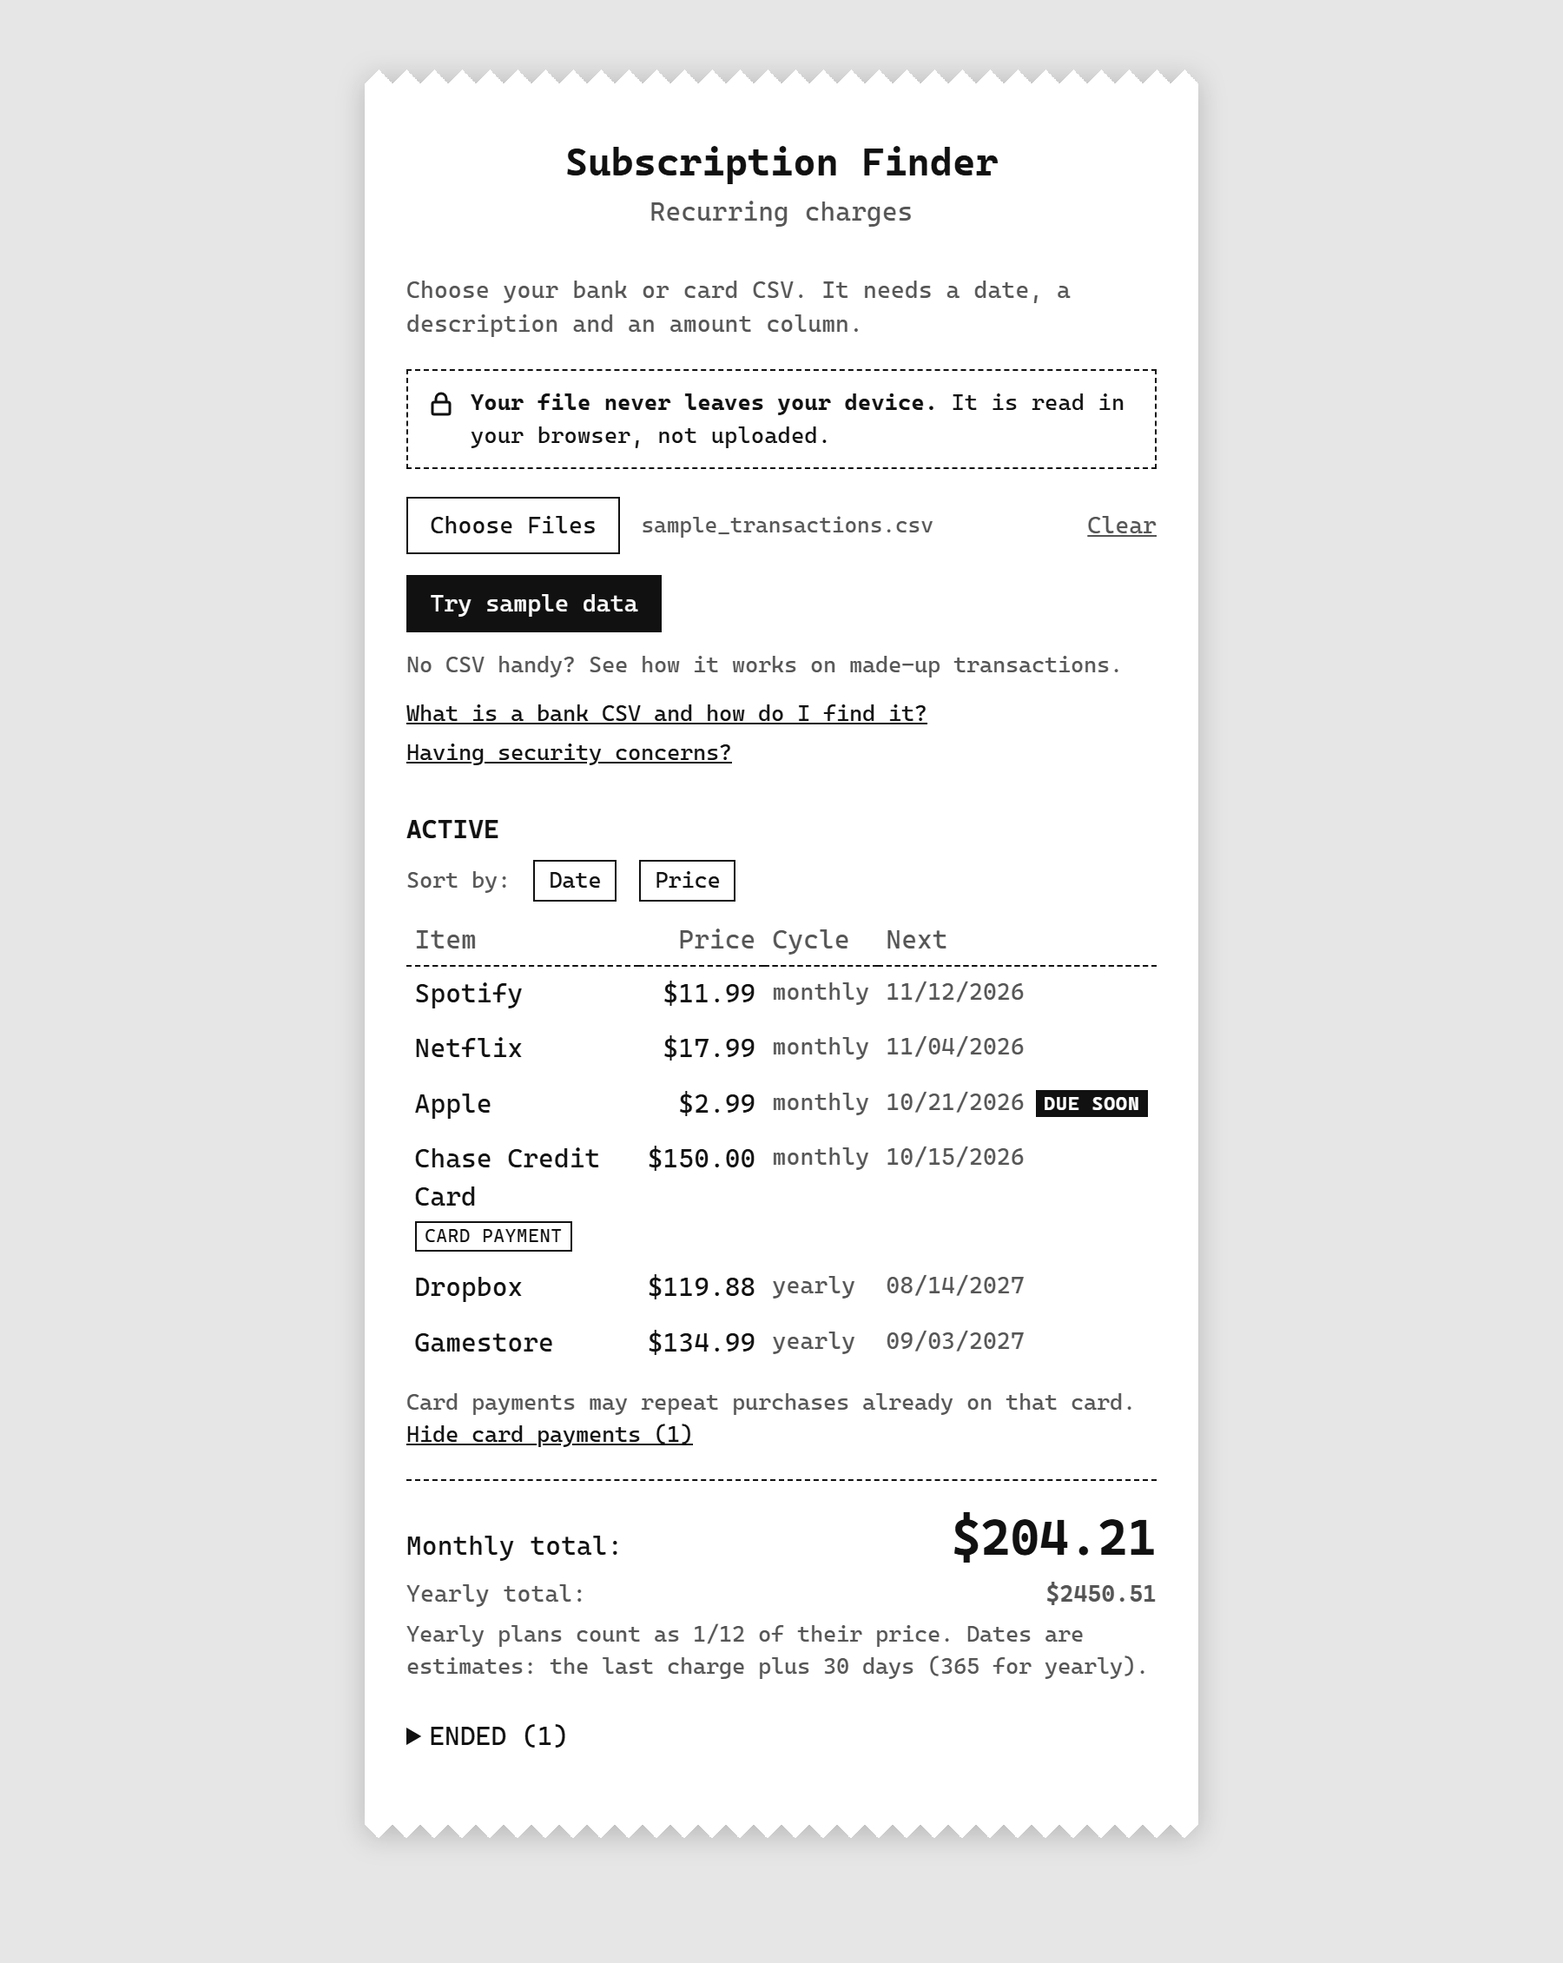
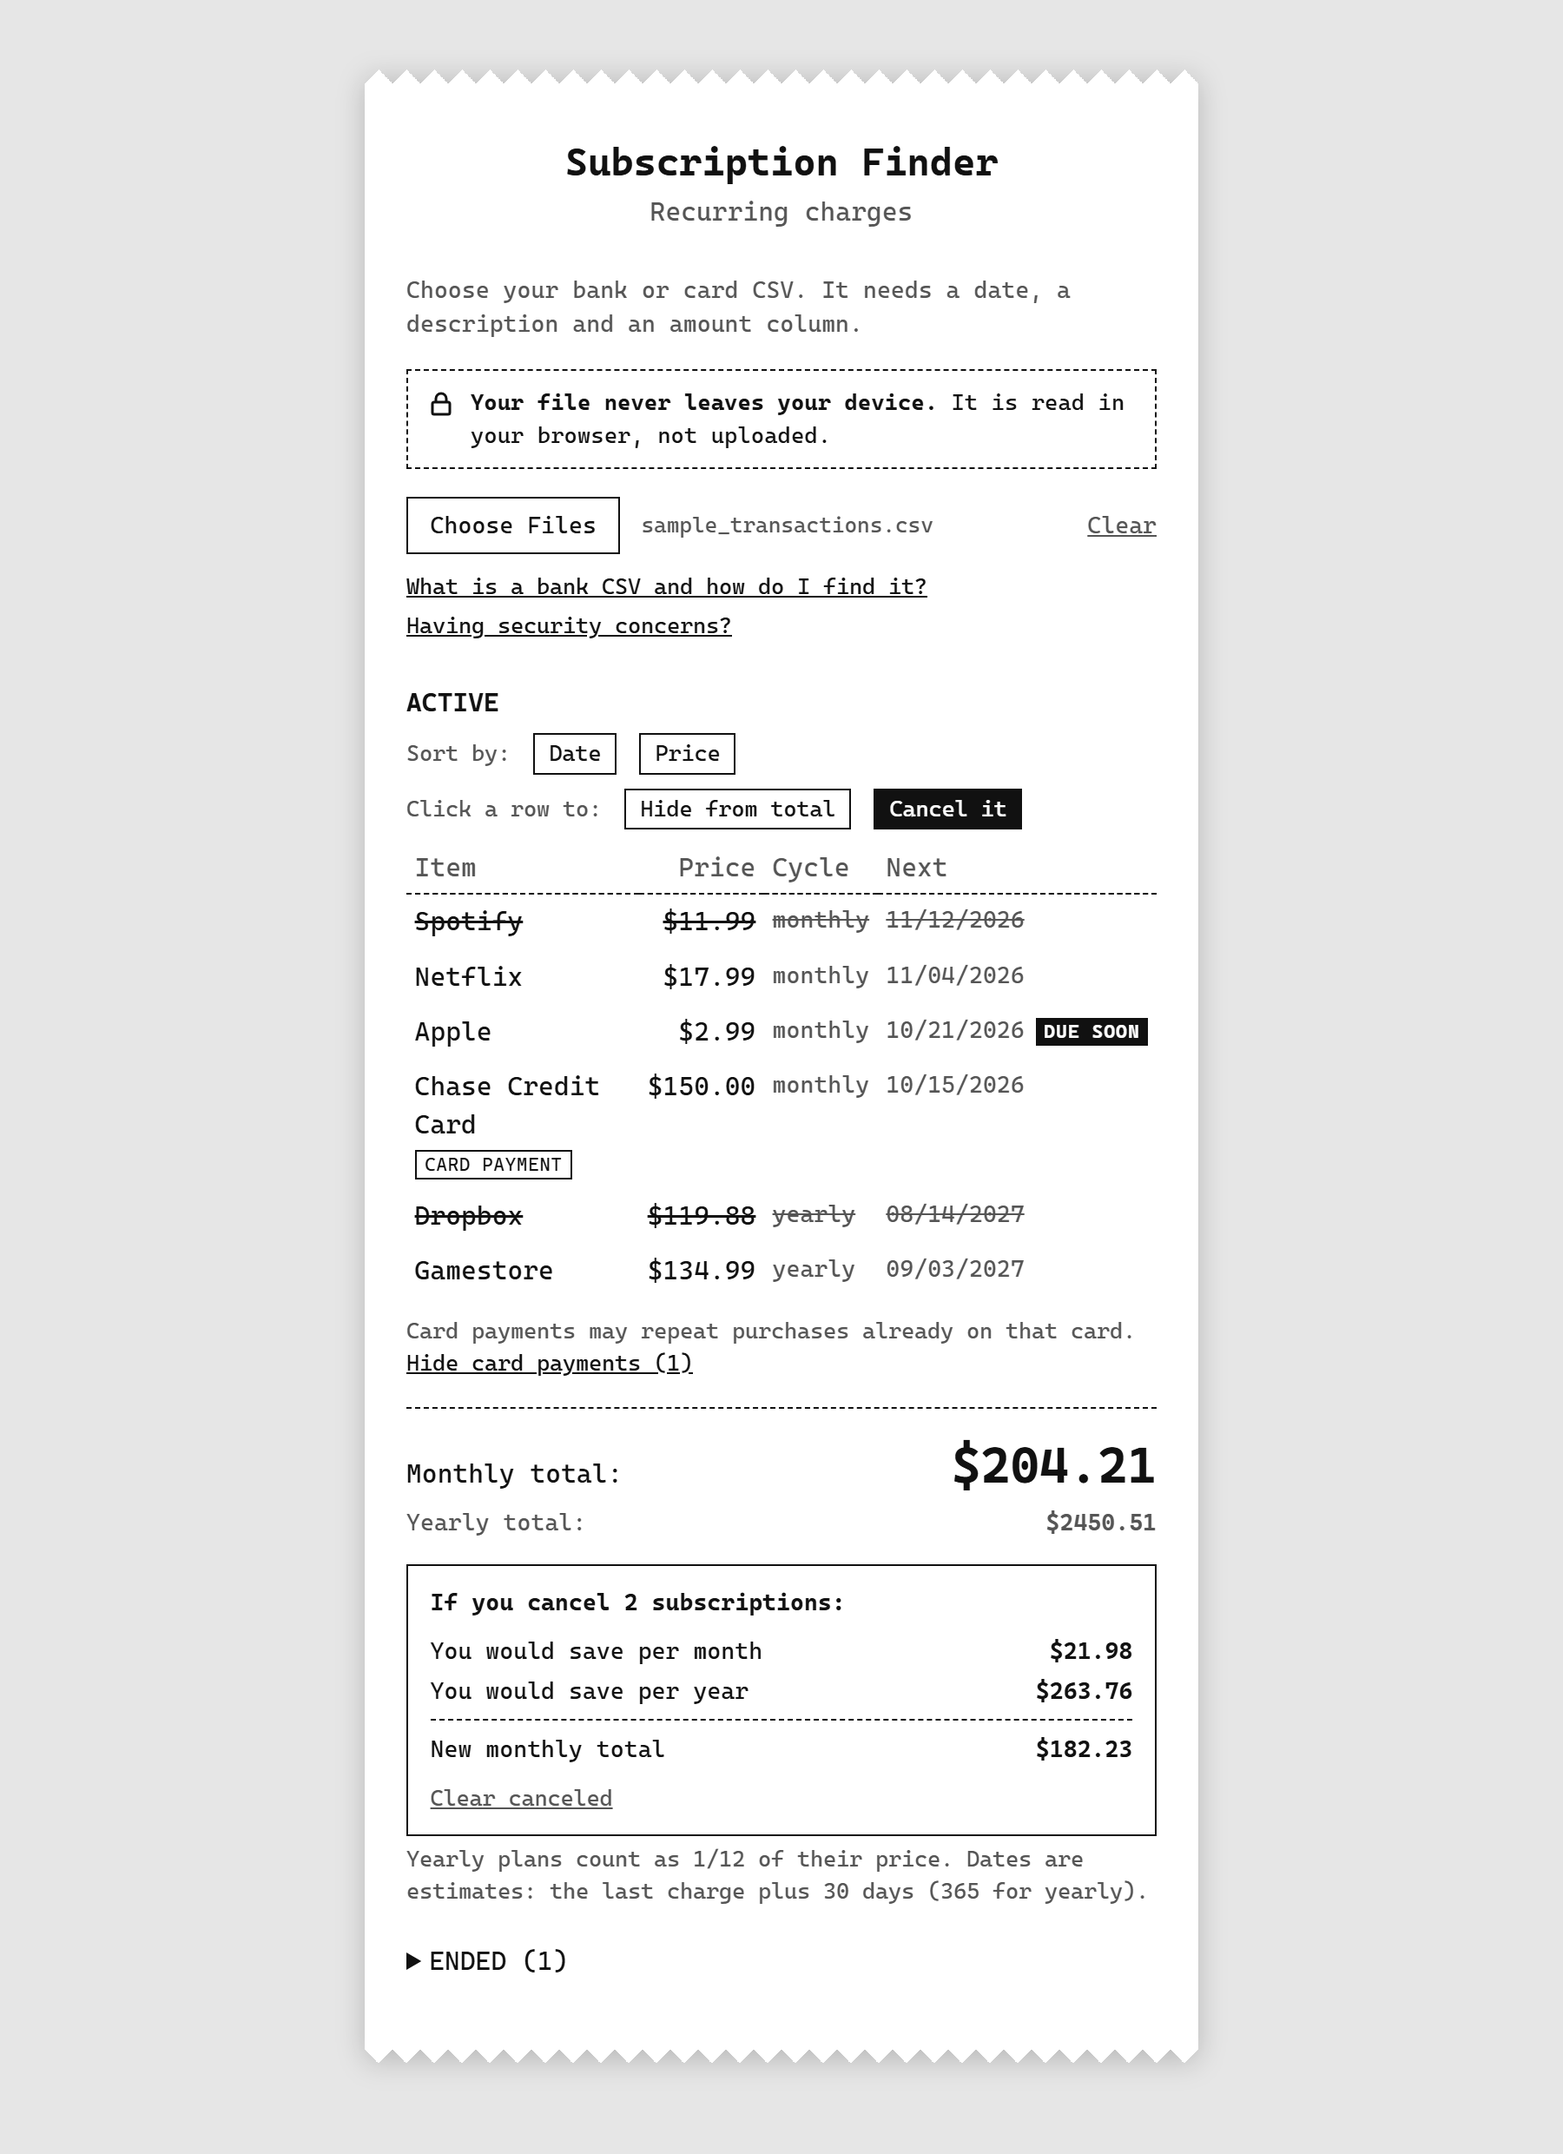
Add what-if-I-cancel view, card payment tag, hover evidence, sample button; hide sample line once loaded

Changed region(s): [[0.2178, 0.031, 0.7778, 0.9602]]

diff --git a/docs/app.js b/docs/app.js
@@ -13,6 +13,13 @@ const sampleButton = document.getElementById("sample-button");
 const cardNote = document.getElementById("card-note");
 const cardNoteText = document.getElementById("card-note-text");
 const cardToggle = document.getElementById("card-toggle");
+const savingsEl = document.getElementById("savings");
+const savingsCount = document.getElementById("savings-count");
+const saveMonth = document.getElementById("save-month");
+const saveYear = document.getElementById("save-year");
+const newMonthly = document.getElementById("new-monthly");
+const clearCancel = document.getElementById("clear-cancel");
+const modeButtons = document.querySelectorAll(".modebar button");
 
 function parseFile(file) {
   return new Promise((resolve, reject) => {
@@ -53,6 +60,8 @@ const yearlyEl = document.getElementById("yearly-total");
 
 let current = []; // the active subscriptions on screen
 let hidden = new Set(); // the ones the user clicked to leave out of the total
+let canceled = new Set(); // the ones the user picked for "what if I cancel"
+let clickMode = "hide"; // what clicking a row does: "hide" it from the total, or "cancel" it to see savings
 
 // the payments toward a credit card or loan that are on screen
 const cardPayments = () => current.filter((s) => s.cardPayment);
@@ -72,16 +81,36 @@ function updateTotal() {
   yearlyEl.textContent = "$" + yearlyTotal(counted).toFixed(2);
   fineEl.textContent = hidden.size ? FINE + " " + hidden.size + " hidden." : FINE;
   updateCardNote();
+  updateSavings(counted);
+}
+
+// What the picked subscriptions would save. A row that is hidden is not in the totals, so canceling it saves nothing.
+function updateSavings(counted) {
+  const picked = counted.filter((s) => canceled.has(s));
+  savingsEl.hidden = picked.length === 0;
+  if (picked.length === 0) return;
+  const result = savingsFor(counted, picked);
+  savingsCount.textContent = picked.length + (picked.length === 1 ? " subscription" : " subscriptions");
+  saveMonth.textContent = "$" + result.perMonth.toFixed(2);
+  saveYear.textContent = "$" + result.perYear.toFixed(2);
+  newMonthly.textContent = "$" + result.newMonthly.toFixed(2);
 }
 
 const NEWLINE = String.fromCharCode(10);
 
 // What the page saw (so the user can judge it), then what a click does
+function clickText(s) {
+  if (clickMode === "cancel") {
+    return canceled.has(s) ? "Click to keep it" : "Click to cancel it and see what you would save";
+  }
+  return hidden.has(s) ? "Click to include in monthly total" : "Click to hide from monthly total";
+}
+
 function tipText(s) {
   return [
     "Seen " + s.count + " times, about every " + s.typicalGap + " days. Last charge " + formatDateUS(s.last) + ".",
     "The next date is an estimate: last charge + " + s.cycle + " days.",
-    hidden.has(s) ? "Click to include in monthly total" : "Click to hide from monthly total",
+    clickText(s),
   ].join(NEWLINE);
 }
 
@@ -105,12 +134,19 @@ function isDueSoon(s) {
   return days >= 0 && days <= 7;
 }
 
+// grays out a hidden row, strikes through a canceled one, and tells screen readers which choice a click toggles
+function applyRowState(tr, s) {
+  tr.classList.toggle("hidden", hidden.has(s));
+  tr.classList.toggle("cancel", canceled.has(s));
+  const on = clickMode === "cancel" ? canceled.has(s) : hidden.has(s);
+  tr.setAttribute("aria-pressed", String(on));
+}
+
 function addActiveRow(s) {
   const tr = document.createElement("tr");
   tr.tabIndex = 0;
   tr.setAttribute("role", "button");
-  tr.setAttribute("aria-pressed", String(hidden.has(s)));
-  tr.classList.toggle("hidden", hidden.has(s));
+  applyRowState(tr, s);
   tr.classList.toggle("due-soon", isDueSoon(s)); // stays when the row is hidden; the row is just grayed out
 
   for (const text of [s.displayName, "$" + s.price.toFixed(2), s.period, formatDateUS(s.next)]) {
@@ -132,10 +168,10 @@ function addActiveRow(s) {
   }
 
   const toggle = () => {
-    if (hidden.has(s)) hidden.delete(s);
-    else hidden.add(s);
-    tr.classList.toggle("hidden", hidden.has(s));
-    tr.setAttribute("aria-pressed", String(hidden.has(s)));
+    const picked = clickMode === "cancel" ? canceled : hidden;
+    if (picked.has(s)) picked.delete(s);
+    else picked.add(s);
+    applyRowState(tr, s);
     tip.textContent = tipText(s);
     updateTotal();
   };
@@ -208,6 +244,7 @@ function show(subscriptions) {
   current = subscriptions.filter((s) => s.active);
   ended = subscriptions.filter((s) => !s.active);
   hidden = new Set();
+  canceled = new Set();
 
   render();
   updateTotal();
@@ -292,6 +329,21 @@ cardToggle.addEventListener("click", () => {
     if (allHidden) hidden.delete(s);
     else hidden.add(s);
   }
+  render();
+  updateTotal();
+});
+
+// switch what a row click does: hide it from the total, or pick it to see what canceling would save
+for (const button of modeButtons) {
+  button.addEventListener("click", () => {
+    clickMode = button.dataset.mode;
+    for (const other of modeButtons) other.setAttribute("aria-pressed", String(other === button));
+    render();
+  });
+}
+
+clearCancel.addEventListener("click", () => {
+  canceled = new Set();
   render();
   updateTotal();
 });

diff --git a/docs/style.css b/docs/style.css
@@ -108,6 +108,7 @@ h1 { margin: 0; font-size: 1.4rem; line-height: 1.2; }
 
 /* the first thing a new visitor should try */
 .sample { display: flex; align-items: center; flex-wrap: wrap; gap: 0.6rem; margin: 0.75rem 0 0; color: var(--faded); font-size: 0.8rem; }
+.sample[hidden] { display: none; } /* the flex layout above would otherwise override the hidden attribute */
 #sample-button {
   padding: 0.35rem 0.8rem;
   border: 1px solid var(--ink);
@@ -145,8 +146,8 @@ h1 { margin: 0; font-size: 1.4rem; line-height: 1.2; }
 
 h2 { margin: 0 0 0.4rem; font-size: 0.95rem; text-transform: uppercase; }
 
-.sortbar { margin: 0 0 0.5rem; color: var(--faded); font-size: 0.8rem; }
-.sortbar button {
+.sortbar, .modebar { margin: 0 0 0.5rem; color: var(--faded); font-size: 0.8rem; }
+.sortbar button, .modebar button {
   margin-left: 0.35rem;
   padding: 0.1rem 0.5rem;
   border: 1px solid var(--ink);
@@ -155,7 +156,7 @@ h2 { margin: 0 0 0.4rem; font-size: 0.95rem; text-transform: uppercase; }
   font: inherit;
   cursor: pointer;
 }
-.sortbar button:hover, .sortbar button[aria-pressed="true"] { background: var(--ink); color: var(--paper); }
+.sortbar button:hover, .sortbar button[aria-pressed="true"], .modebar button:hover, .modebar button[aria-pressed="true"] { background: var(--ink); color: var(--paper); }
 
 table { border-collapse: collapse; width: 100%; }
 th {
@@ -189,6 +190,29 @@ td:nth-child(4) { white-space: nowrap; }
   font-size: 0.85rem;
 }
 #yearly-total { font-weight: 700; }
+.savings {
+  margin: 0.9rem 0 0;
+  padding: 0.7rem 0.8rem;
+  border: 1px solid var(--ink);
+  font-size: 0.85rem;
+}
+.savings-title { margin: 0 0 0.4rem; font-weight: 700; }
+.savings-row { display: flex; justify-content: space-between; gap: 1rem; padding: 0.1rem 0; }
+.savings-row span:last-child { font-weight: 700; }
+.savings-new { margin-top: 0.3rem; padding-top: 0.4rem; border-top: 1px dashed var(--ink); }
+#clear-cancel {
+  margin-top: 0.5rem;
+  padding: 0;
+  border: 0;
+  background: none;
+  color: var(--faded);
+  font: inherit;
+  font-size: 0.8rem;
+  text-decoration: underline;
+  cursor: pointer;
+}
+#clear-cancel:hover { color: var(--ink); }
+.savings[hidden] { display: none; }
 .fine { margin: 0.25rem 0 1.25rem; color: var(--faded); font-size: 0.8rem; }
 
 /* active rows can be clicked to hide them from the monthly total */
@@ -196,6 +220,8 @@ td:nth-child(4) { white-space: nowrap; }
 #active-body tr:hover { background: #f2f2f2; }
 #active-body tr:focus-visible { outline: 2px solid var(--ink); outline-offset: -2px; }
 #active-body tr.hidden { opacity: 0.4; }
+/* a row picked for "what if I cancel": struck through (the tags keep their normal look) */
+#active-body tr.cancel td { text-decoration: line-through; }
 
 .overdue,
 #active-body tr.due-soon td:nth-child(4)::after {

diff --git a/tests/savings.test.js b/tests/savings.test.js
@@ -1,0 +1,58 @@
+// "What if I cancel": the savings must always agree with the receipt's own totals.
+const test = require("node:test");
+const assert = require("node:assert/strict");
+const { finder, analyze, readDoc } = require("./helpers");
+
+function sample() {
+  const { subscriptions } = analyze([readDoc("sample_transactions.csv")]);
+  const active = Array.from(subscriptions.filter((s) => s.active));
+  const named = (name) => active.find((s) => s.displayName === name);
+  return { active, named };
+}
+
+const money = (n) => n.toFixed(2);
+
+test("canceling a monthly plan and a yearly plan gives the expected savings", () => {
+  const { active, named } = sample();
+  const result = finder.savingsFor(active, [named("Spotify"), named("Dropbox")]);
+  // Spotify is $11.99 a month. Dropbox is $119.88 a year, which is $9.99 a month.
+  assert.equal(money(result.perMonth), "21.98");
+  // per year: 11.99 x 12 for the monthly plan, plus the yearly plan once at its real price
+  assert.equal(money(result.perYear), "263.76");
+  assert.equal(money(result.newMonthly), "182.23");
+  assert.equal(money(result.newYearly), "2186.75");
+});
+
+test("what you save plus what you keep adds back up to the full totals", () => {
+  const { active, named } = sample();
+  const picks = [[named("Netflix")], [named("Apple"), named("Gamestore")], active];
+  for (const picked of picks) {
+    const result = finder.savingsFor(active, picked);
+    assert.ok(Math.abs(result.perMonth + result.newMonthly - finder.monthlyTotal(active)) < 0.011);
+    assert.ok(Math.abs(result.perYear + result.newYearly - finder.yearlyTotal(active)) < 0.011);
+  }
+});
+
+test("canceling nothing saves nothing", () => {
+  const { active } = sample();
+  const result = finder.savingsFor(active, []);
+  assert.equal(result.perMonth, 0);
+  assert.equal(result.perYear, 0);
+  assert.equal(result.newMonthly, finder.monthlyTotal(active));
+});
+
+test("canceling everything leaves nothing", () => {
+  const { active } = sample();
+  const result = finder.savingsFor(active, active);
+  assert.equal(result.newMonthly, 0);
+  assert.equal(result.newYearly, 0);
+  assert.equal(result.perMonth, finder.monthlyTotal(active));
+});
+
+test("a hidden row is not counted, so the page only offers savings on rows that count", () => {
+  // the page passes only the rows that count toward the totals (not hidden ones)
+  const { active, named } = sample();
+  const counted = active.filter((s) => s !== named("Chase Credit Card"));
+  const result = finder.savingsFor(counted, [named("Netflix")]);
+  assert.equal(money(result.newMonthly), money(finder.monthlyTotal(counted) - 17.99));
+});

diff --git a/docs/index.html b/docs/index.html
@@ -86,6 +86,11 @@
         <button type="button" data-sort="date" aria-pressed="false">Date</button>
         <button type="button" data-sort="price" aria-pressed="false">Price</button>
       </div>
+      <div class="modebar">
+        Click a row to:
+        <button type="button" data-mode="hide" aria-pressed="true">Hide from total</button>
+        <button type="button" data-mode="cancel" aria-pressed="false">Cancel it</button>
+      </div>
       <table>
         <thead><tr><th>Item</th><th>Price</th><th>Cycle</th><th>Next</th></tr></thead>
         <tbody id="active-body"></tbody>
@@ -100,6 +105,13 @@
       <div class="yearly-row">
         <span>Yearly total:</span>
         <span id="yearly-total"></span>
+      </div>
+      <div class="savings" id="savings" hidden>
+        <p class="savings-title">If you cancel <span id="savings-count"></span>:</p>
+        <div class="savings-row"><span>You would save per month</span><span id="save-month"></span></div>
+        <div class="savings-row"><span>You would save per year</span><span id="save-year"></span></div>
+        <div class="savings-row savings-new"><span>New monthly total</span><span id="new-monthly"></span></div>
+        <button type="button" id="clear-cancel">Clear canceled</button>
       </div>
       <p class="fine" id="fine">Yearly plans count as 1/12 of their price. Dates are estimates.</p>
 

diff --git a/docs/finder.js b/docs/finder.js
@@ -531,6 +531,19 @@ function yearlyTotal(subscriptions) {
   return Math.round((monthly * 12 + yearly) * 100) / 100;
 }
 
+// What canceling some subscriptions would save. `counted` is every row that counts toward the totals and
+// `canceled` is the part of it the user picked. It reuses the receipt's own two totals, so the numbers
+// always agree with the rest of the page: saved + kept adds back up to the full total.
+function savingsFor(counted, canceled) {
+  const kept = counted.filter((s) => !canceled.includes(s));
+  return {
+    perMonth: monthlyTotal(canceled),
+    perYear: yearlyTotal(canceled),
+    newMonthly: monthlyTotal(kept),
+    newYearly: yearlyTotal(kept),
+  };
+}
+
 if (typeof module !== "undefined") {
   module.exports = { mergeEntries, yearlyTotal, entriesFromRows, groupCharges, brandFor, displayName, formatDateUS, rowsFromArrays, makeKey, parseDate, daysBetween, loadCharges, findSubscriptions, monthlyTotal, formatDate };
 }

diff --git a/README.md b/README.md
@@ -4,7 +4,7 @@
 
 Reads a bank or card statement CSV and lists the charges that repeat: what each subscription costs, when the next one is due, and your monthly and yearly totals. It runs entirely in the browser, so your file is never uploaded.
 
-![The page showing six recurring charges, including a tagged credit card payment, a due-soon tag, and monthly and yearly totals](docs/screenshot.png)
+![The page with two subscriptions picked for cancellation, showing the monthly and yearly savings](docs/screenshot.png)
 
 **Live page:** https://readtheterms.github.io/subscription-finder/ (no CSV handy? Click **Try sample data** to see it on made-up transactions.)
 
@@ -15,6 +15,7 @@ Reads a bank or card statement CSV and lists the charges that repeat: what each 
 - **Readable names.** `SPOTIFY USA 877-778-1161 NY` becomes `Spotify`, using a list of well-known companies plus some cleanup.
 - **See why it was detected.** Hover a row to see how many charges were found, how far apart they were, and when the last one was.
 - **Hide a row.** Click a row to gray it out and leave it out of the totals. Click again to count it.
+- **What if I cancel?** Switch "Click a row to" from *Hide from total* to *Cancel it*, then pick subscriptions. The page strikes them through and shows how much you would save per month and per year, and your new monthly total.
 - **Card payments are tagged.** A payment toward a credit card or loan is marked `CARD PAYMENT`, with a note that it may repeat purchases already on that card, and one button to hide or show them all.
 - **Sort** by date or price. Click the same button again to reverse.
 - **Tags.** `DUE SOON` means the next charge is expected within 7 days. `OVERDUE` means it was expected and didn't arrive. Dates are always estimates, and the page says how they are worked out.
